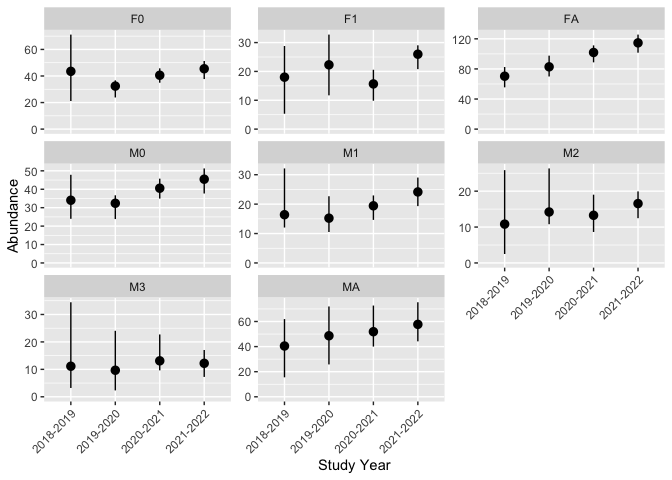
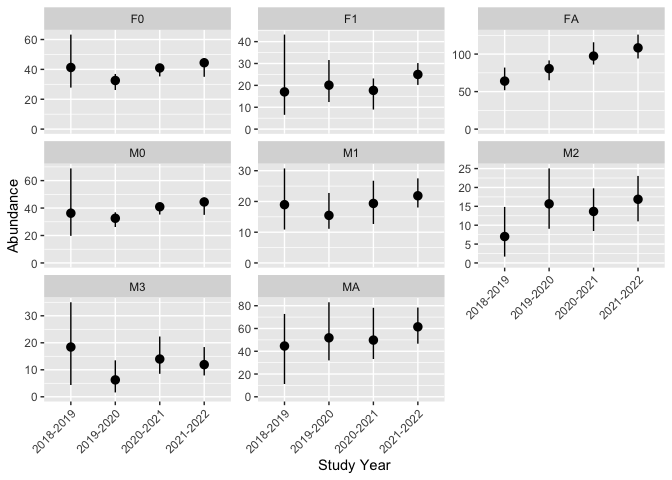
Update readme with new analysis object

diff --git a/README.md b/README.md
@@ -161,18 +161,18 @@ bpt_coefficient_table(analysis)
 ```
 
     ## # A tibble: 57 × 5
-    ##    term                           estimate   lower  upper svalue
-    ##    <term>                            <dbl>   <dbl>  <dbl>  <dbl>
-    ##  1 bEtaSummerFall                    0.305  0.0304  0.879  4.39 
-    ##  2 bEtaWin                           0.158  0.0211  0.399  4.39 
-    ##  3 bFecundityReproductiveFA          1.71   1.31    2.64   4.39 
-    ##  4 bInitialMortalityCalfAnnual[1]   -3.26  -5.76   -1.10   4.39 
-    ##  5 bInitialMortalityCalfAnnual[2]   -5.27  -8.17   -1.97   4.39 
-    ##  6 bInitialMortalityCalfAnnual[3]   -3.49  -6.99   -1.61   4.39 
-    ##  7 bInitialMortalityCalfAnnual[4]   -2.14  -5.43    1.64   0.933
-    ##  8 bKmWeekSummerFall                 1.57   0.323   3.32   4.39 
-    ##  9 bKmWeekWin                        2.37   1.59    3.55   4.39 
-    ## 10 bMAProportion[1]                  0.475  0.321   0.607  4.39 
+    ##    term                           estimate    lower  upper svalue
+    ##    <term>                            <dbl>    <dbl>  <dbl>  <dbl>
+    ##  1 bEtaSummerFall                    0.232  0.00955  0.753  4.39 
+    ##  2 bEtaWin                           0.101  0.00114  0.484  4.39 
+    ##  3 bFecundityReproductiveFA          1.94   1.63     2.69   4.39 
+    ##  4 bInitialMortalityCalfAnnual[1]   -3.75  -5.78    -2.12   4.39 
+    ##  5 bInitialMortalityCalfAnnual[2]   -4.56  -7.45    -2.35   4.39 
+    ##  6 bInitialMortalityCalfAnnual[3]   -2.87  -7.46    -1.60   4.39 
+    ##  7 bInitialMortalityCalfAnnual[4]   -1.09  -6.11     3.64   0.485
+    ##  8 bKmWeekSummerFall                 2.22   0.266    4.42   4.39 
+    ##  9 bKmWeekWin                        1.93   1.21     2.63   4.39 
+    ## 10 bMAProportion[1]                  0.440  0.258    0.582  4.39 
     ## # ℹ 47 more rows
 
 ### Make predictions
@@ -190,10 +190,10 @@ bpt_predict_abundance_total(analysis)
     ## # A tibble: 4 × 4
     ##   annual    estimate lower upper
     ##   <fct>        <dbl> <dbl> <dbl>
-    ## 1 2018-2019     217.  177.  247.
-    ## 2 2019-2020     229.  200.  250.
-    ## 3 2020-2021     259.  233.  278.
-    ## 4 2021-2022     297.  271.  314.
+    ## 1 2018-2019     211.  182.  244.
+    ## 2 2019-2020     225.  205.  252.
+    ## 3 2020-2021     254.  230.  280.
+    ## 4 2021-2022     295.  258.  311.
 
 ``` r
 # Can predict other values using the following functions
